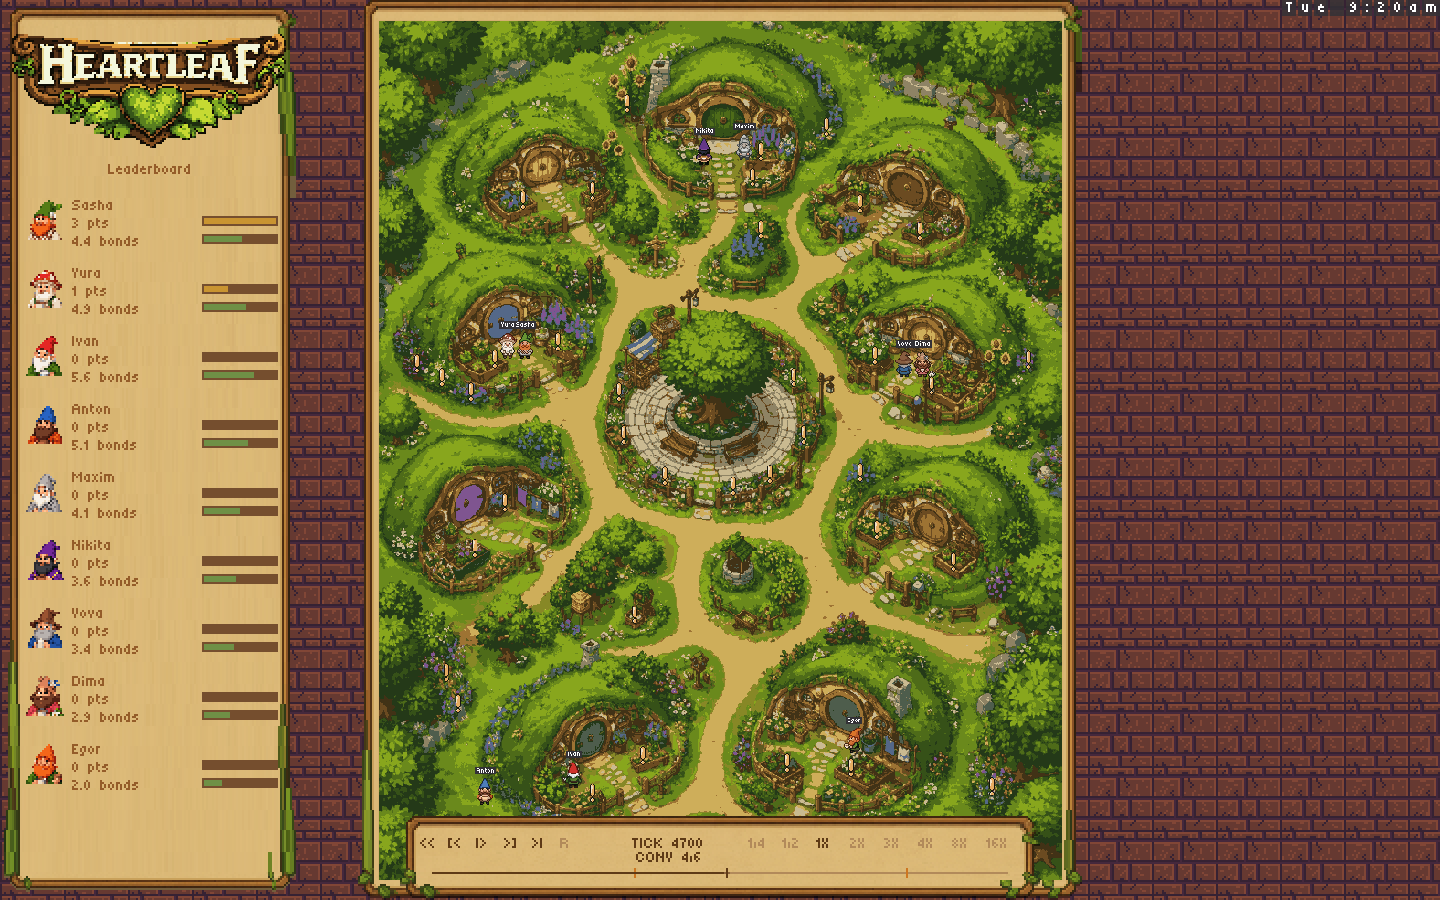
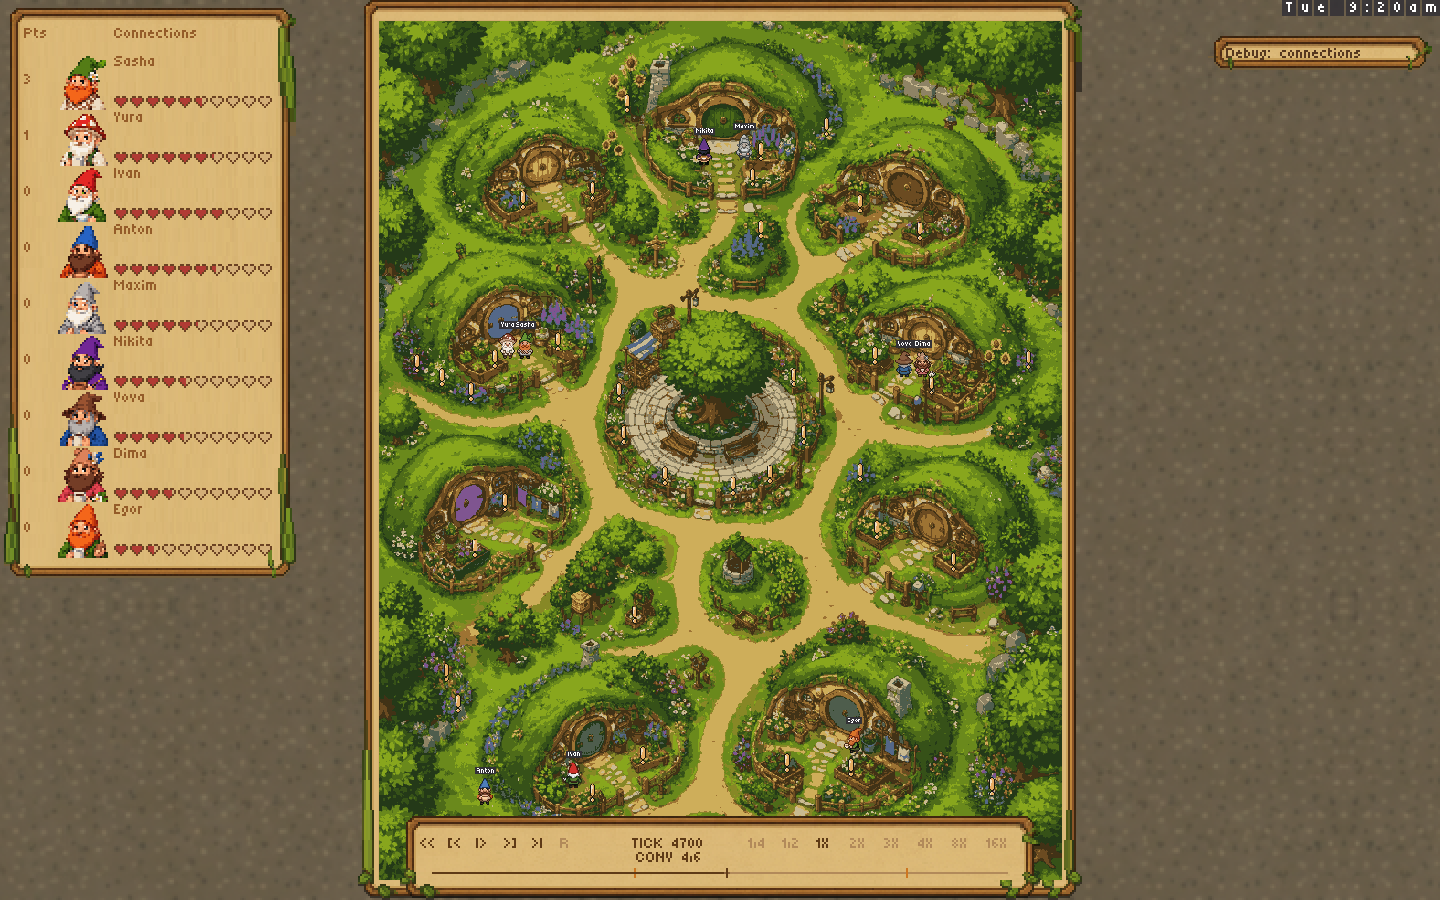
Refine connection hearts and add optional full-village debug graph

diff --git a/docs/connections.md b/docs/connections.md
@@ -1,7 +1,7 @@
 # Connections
 
-This feature branch builds on viewer stability PR #50. Merge #50 first, then
-rebase this branch onto master; the feature commits are separate from that work.
+This feature branch is rebased onto viewer stability PR #50 at `63146e5`.
+Merge #50 first, then rebase onto master; the connections work stays in PR #51.
 
 ## What ships
 
@@ -10,22 +10,23 @@ rebase this branch onto master; the feature commits are separate from that work.
 - At **9pm**, after the day's dinner outcomes have entered each gnome's memory,
   the score screen waits for one bedtime interview per gnome. The model ranks
   every other seated gnome and gives short reasons grounded in that day's events.
-- The left leaderboard keeps the Heartleaf title and adds separate **game-point**
-  and **connection** bars. The latter sums current bonds: initially 4, maximum 8
-  with nine gnomes. Game points scale to the current leader; connections use the
-  fixed number of partners. The existing game reward/winner rules are unchanged.
-- Conversation cards retain their existing portrait, type size and layout. Their
-  relationship strip shows the listener's name and **three pixel hearts**, with
-  partial fill: a 0.5 bond is one full heart, one half heart, one empty heart.
+- The compact left leaderboard shows **numeric game points** and **ten pixel
+  connection hearts**. Heart fill is the average of that gnome's pair strengths
+  multiplied by ten: five filled hearts initially, zero through ten overall.
+  There are no bars. The existing game reward/winner rules are unchanged.
+- Conversation cards keep the original font and 54px portraits. Their identity
+  strip says **“Connection with Anton”** (the named listener) above three pixel
+  hearts. A 0.5 pair is one full, one half-full and one empty heart.
 - `send_emoji` is a deliberate model action targeting a nearby visible gnome:
   `happy`, `very_happy`, `sad`, or `very_sad`. Small pixel faces clear the gnome's
   portrait/body and disappear after their recorded animation. The recipient
   notices the reaction in its memory. Proximity and spoken-turn count no longer
   emit reactions or change the new bond score.
-- Select a leaderboard gnome to inspect its graph of shared bonds, last recorded
-  action and latest bedtime ranking/reasons. Longer interviews have reflection
-  pages. Select the same gnome again to close. The inspector hides during the
-  director's conversation shots, which still fill the window.
+- **Debug: connections** opens the full village graph; it is closed by default.
+  All nine gnomes and all 36 pairs remain visible. Select a graph portrait to
+  highlight its edges, inspect the percentages, last recorded action and bedtime
+  ranking/reasons. Long reflections have pages. Close the graph with the same
+  debug button. Leaderboard rows have no inspector click action.
 - Pair snapshots, interviews, actions and reactions travel inside the replay.
   Both native and static viewers derive them from the playhead, including backward
   seeks and concurrent-conversation rewinds. Old replays remain playable and show
@@ -84,17 +85,19 @@ the static WASM build. New viewer checks exercise selection, reflection pages,
 pause, next/previous, speeds, end/restart, and forward/backward seeks across days.
 
 The images below are **offline renders of actual replay sprite-protocol frames**.
-The Mac was locked, so OS/browser click-through was unavailable. Real model ranking
-quality, request latency and remote deployment have not been validated by this fixture.
+The Mac was locked, so OS/browser click-through was unavailable. The authored
+fixture does not validate model ranking quality or request latency. Claude
+subscription playtest observations are documented separately when complete.
 
 ![Day two leaderboard](connections/06-day-two-overview.png)
 ![Conversation with half-filled hearts and intentional reactions](connections/03-conversation.png)
-![Selected gnome graph and bedtime reflections](connections/07-bedtime-results.png)
+![Full village debug graph and selected gnome reflections](connections/07-bedtime-results.png)
 
 ## Out of scope
 
 Production deployment or merge; tournament reward changes; automatic promise
 tracking or event-based point bonuses; ties/absolute ratings; relationship decay;
 persistence across separate episodes; the removed right-side conversation list;
-and automatic live-model quality evaluation. The existing replay controls, camera
-timing, map geometry, font sizes, brick background and dialogue layout are preserved.
+and automatic live-model quality evaluation. PR #50's replay controls, camera
+timing, map geometry, font sizes, muted ground texture and original portrait pixels
+are preserved. Its removed logo and bricks are not restored.
